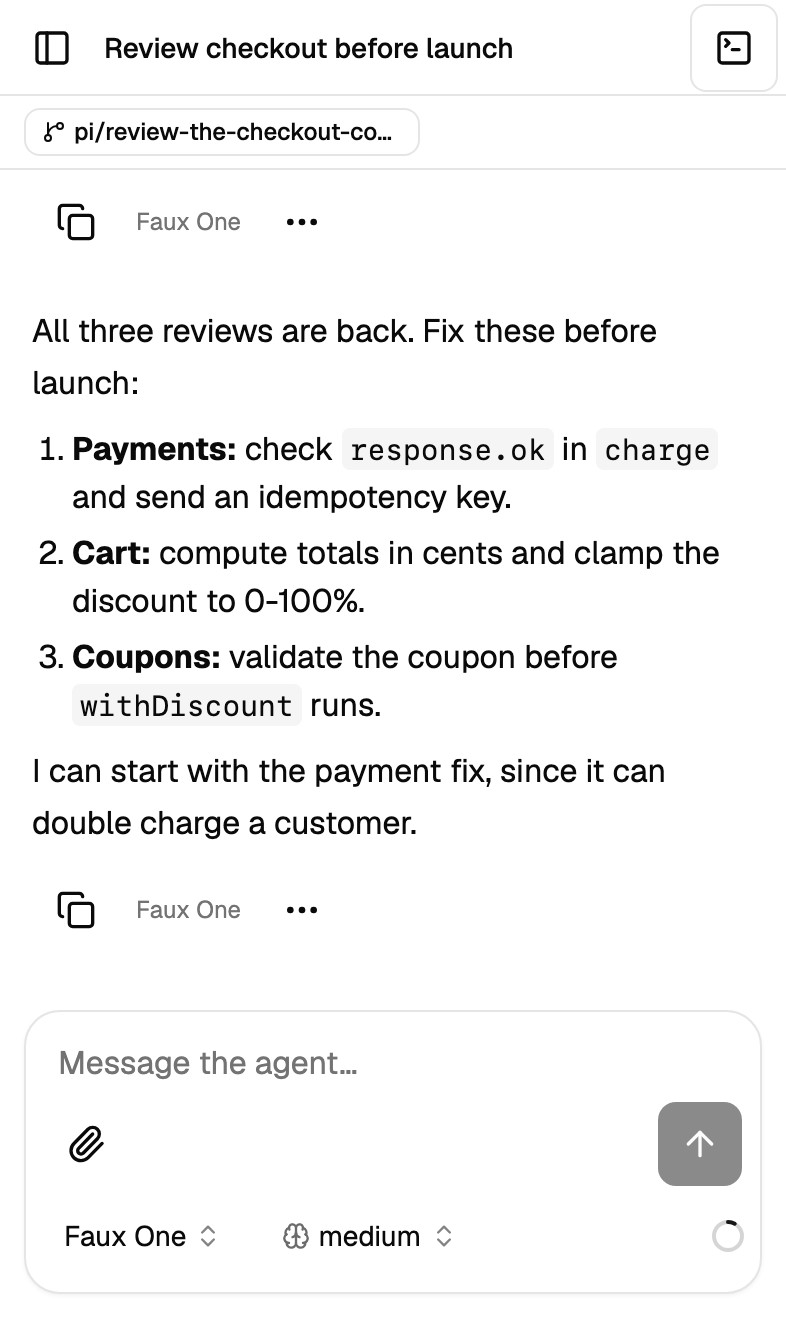
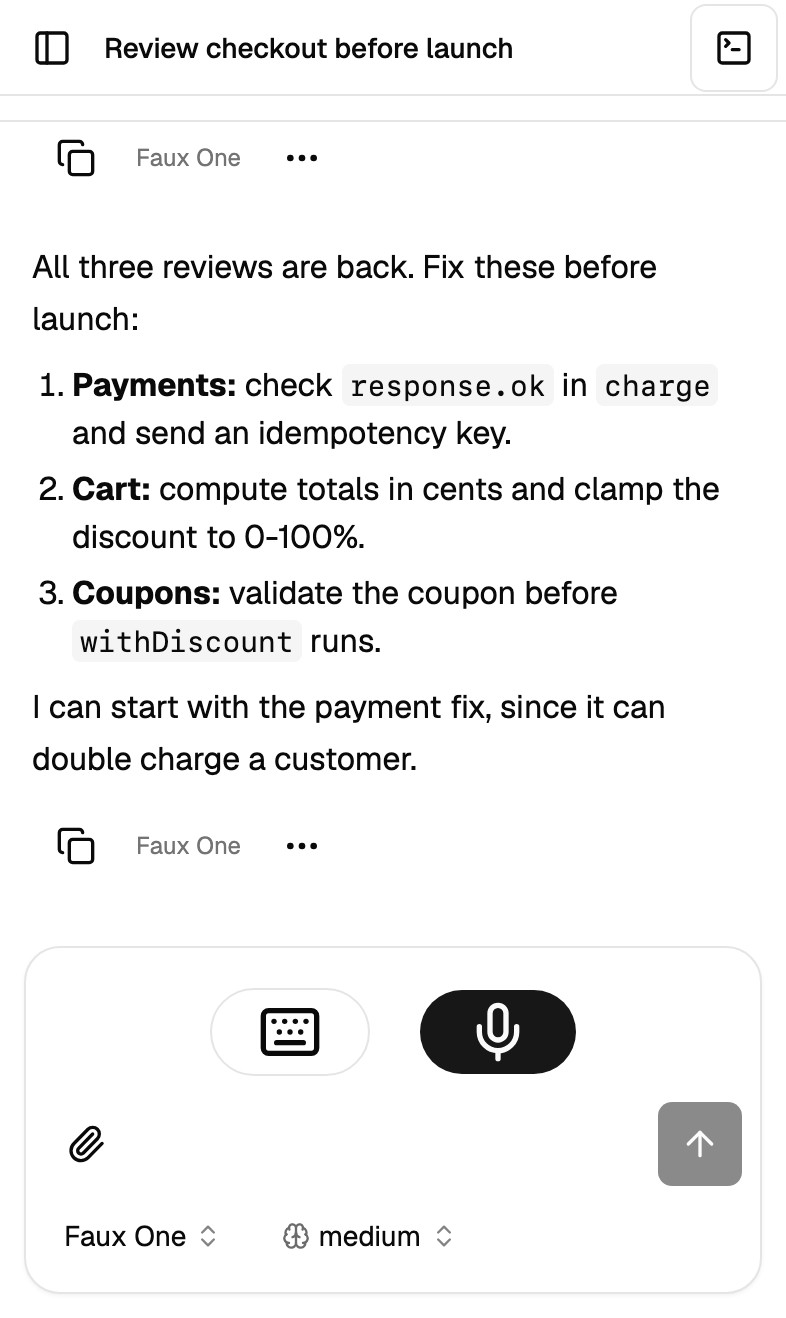
Mobile shell follows the visual viewport; safe-area bars; no autofocus on touch

diff --git a/packages/web/src/routes/MainLayout.tsx b/packages/web/src/routes/MainLayout.tsx
@@ -1,3 +1,4 @@
+import { useEffect } from "react";
 import { Route, Routes, useSearchParams } from "react-router";
 import { useOpenConversation } from "@/activity";
 import { SidebarInset, SidebarProvider, SidebarTrigger, useSidebar } from "@/components/ui/sidebar";
@@ -37,7 +38,9 @@ function MainHeader() {
   if (isMobile && conversationId) return null;
   if (!isMobile && open) return null;
   return (
-    <header className="flex h-12 shrink-0 items-center gap-2 border-b px-3">
+    // pt-[env()]: in a fullscreen PWA the status bar overlays the web view;
+    // without this the toggle slides under the notch and can't be tapped.
+    <header className="flex min-h-12 shrink-0 items-center gap-2 border-b px-3 pt-[env(safe-area-inset-top)]">
       <SidebarTrigger aria-label="Open sidebar" />
       <span className="text-sm font-semibold">tau</span>
       <HeaderSlotOutlet />
@@ -45,8 +48,28 @@ function MainHeader() {
   );
 }
 
+/**
+ * Track the visual viewport height in a CSS var. `100dvh` ignores the iOS
+ * keyboard (it sizes to the large viewport), so without this the composer
+ * slides behind the keyboard with no way to see what you type. Browsers
+ * without visualViewport keep the `100dvh` fallback.
+ */
+function useVisualViewportHeight() {
+  useEffect(() => {
+    const viewport = window.visualViewport;
+    if (!viewport) return;
+    const update = () => {
+      document.documentElement.style.setProperty("--tau-app-height", `${viewport.height}px`);
+    };
+    update();
+    viewport.addEventListener("resize", update);
+    return () => viewport.removeEventListener("resize", update);
+  }, []);
+}
+
 export function MainLayout() {
   useNodeIdReconcile();
+  useVisualViewportHeight();
   return (
     <SidebarProvider
       defaultOpen={preferences.getSidebarOpen()}
@@ -58,7 +81,7 @@ export function MainLayout() {
       <CommandPalette />
       <GlobalShortcuts />
       <NotificationWatcher />
-      <SidebarInset className="h-dvh min-w-0">
+      <SidebarInset className="h-[var(--tau-app-height,100dvh)] min-w-0">
         <HeaderSlotProvider>
           <MainHeader />
           <div className="flex min-h-0 flex-1 flex-col overflow-hidden">

diff --git a/packages/web/src/conversation/Composer.tsx b/packages/web/src/conversation/Composer.tsx
@@ -141,6 +141,9 @@ function ComposerForm({
   };
 
   useEffect(() => {
+    // Never steal focus on touch devices: it pops the keyboard and iOS
+    // scrolls the page, pushing the header off-screen with no way back.
+    if (window.matchMedia?.("(pointer: coarse)").matches) return;
     const active = document.activeElement;
     if (active && active !== document.body && active.closest("[role=dialog]")) return;
     textarea.current?.focus({ preventScroll: true });
@@ -156,6 +159,7 @@ function ComposerForm({
         setTextState(loadDraft(target));
         replace(loadAttachments(target));
         replaceFiles(loadFileAttachments(target));
+        if (window.matchMedia?.("(pointer: coarse)").matches) return;
         requestAnimationFrame(() => textarea.current?.focus());
       }),
     [target, replace, replaceFiles],

diff --git a/packages/web/src/conversation/ThreadHeader.tsx b/packages/web/src/conversation/ThreadHeader.tsx
@@ -56,7 +56,7 @@ export function ThreadHeader({
         {slot && machine && !hideMachine ? createPortal(machine, slot) : null}
       </div>
       {/* Mobile: a single compact bar; the app bar above stays hidden on thread pages. */}
-      <div className="flex h-12 items-center gap-1 border-b px-1 md:hidden">
+      <div className="flex min-h-12 items-center gap-1 border-b px-1 pt-[env(safe-area-inset-top)] md:hidden">
         <SidebarTrigger aria-label="Open sidebar" />
         <h1 className="min-w-0 flex-1 truncate text-sm font-medium">{title}</h1>
         {actions}

diff --git a/packages/web/src/routes/NodeOffline.tsx b/packages/web/src/routes/NodeOffline.tsx
@@ -36,7 +36,7 @@ function OfflineBody({ node }: { node: Node }) {
 /** Mobile bar for full-page states: the app bar stays hidden on thread URLs. */
 function PageBar({ title }: { title: string }) {
   return (
-    <div className="flex h-12 shrink-0 items-center gap-1 border-b px-1 md:hidden">
+    <div className="flex min-h-12 shrink-0 items-center gap-1 border-b px-1 pt-[env(safe-area-inset-top)] md:hidden">
       <SidebarTrigger aria-label="Open sidebar" />
       <h1 className="min-w-0 flex-1 truncate text-sm font-medium">{title}</h1>
     </div>

diff --git a/packages/web/src/routes/NewThreadPage.tsx b/packages/web/src/routes/NewThreadPage.tsx
@@ -121,7 +121,7 @@ export function NewThreadPage() {
   );
 
   return (
-    <div className="flex flex-1 flex-col items-center justify-center gap-4 p-6 max-md:justify-end max-md:pb-10">
+    <div className="flex flex-1 flex-col items-center justify-center gap-4 p-6">
       <h2 className="text-lg font-semibold">New thread</h2>
       {notSetUp ? <NotSetUpNotice nodeId={nodeId} /> : null}
       <div className="w-full max-w-2xl">

diff --git a/packages/web/index.html b/packages/web/index.html
@@ -2,7 +2,10 @@
 <html lang="en">
   <head>
     <meta charset="UTF-8" />
-    <meta name="viewport" content="width=device-width, initial-scale=1.0, viewport-fit=cover" />
+    <meta
+      name="viewport"
+      content="width=device-width, initial-scale=1.0, viewport-fit=cover, interactive-widget=resizes-content"
+    />
     <meta name="color-scheme" content="light dark" />
     <script>
       try {

diff --git a/packages/web/src/sidebar/AppSidebar.tsx b/packages/web/src/sidebar/AppSidebar.tsx
@@ -119,7 +119,7 @@ export function AppSidebar() {
   };
   return (
     <Sidebar aria-label="Projects and threads">
-      <SidebarHeader className="gap-4 px-4 py-3">
+      <SidebarHeader className="gap-4 px-4 pt-[calc(0.75rem+env(safe-area-inset-top))] pb-3">
         <div className="grid grid-cols-[1fr_auto_1fr] items-center gap-2">
           <Tooltip>
             <TooltipTrigger asChild>
